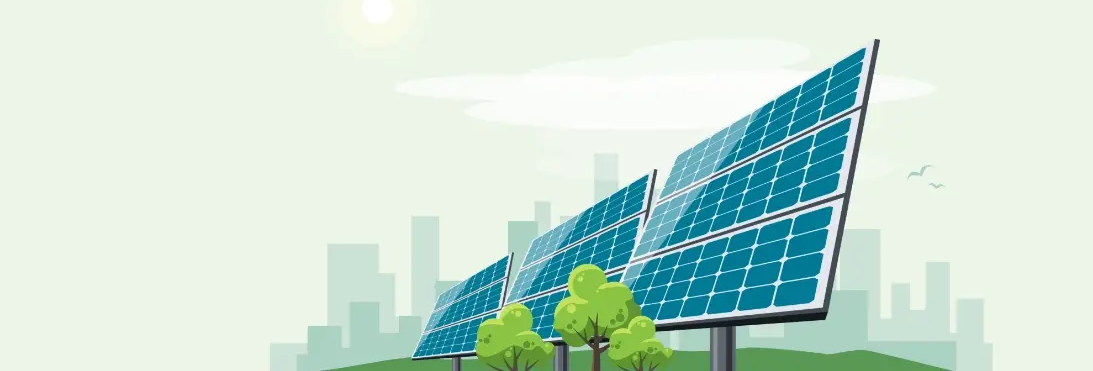
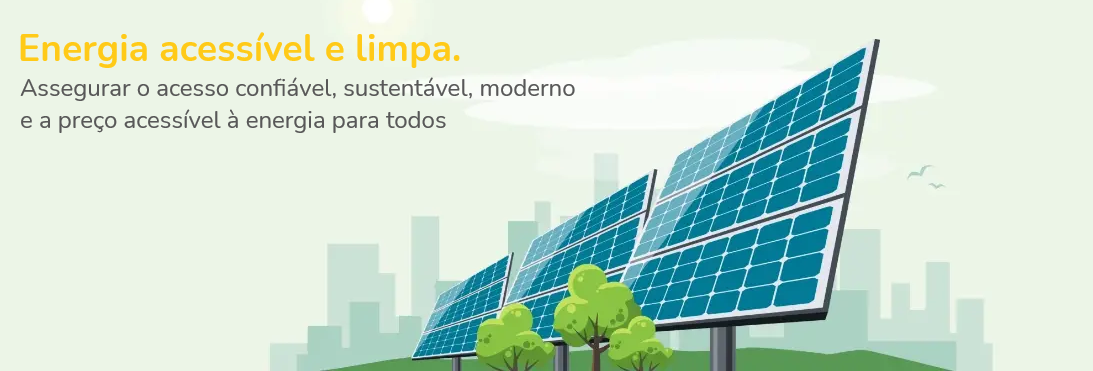
Adicionado os textos informativos e ajustados bugs

Changed region(s): [[0.0, 0.0889, 0.4355, 0.1779], [0.0, 0.2075, 0.5288, 0.2668], [0.0, 0.2965, 0.4044, 0.3558]]

diff --git a/index.html b/index.html
@@ -45,8 +45,8 @@
         <div class="row">
           <div class="col-sm-8 col-md-7 py-0">
             <h4 class="text-white"><img src="img/imgHeader.png" width="350" class="img-fluid rounded mx-auto d-block"
-                alt=""></h4>
-            <!--  <p class="text-muted">Adquira agora mesmo nossos painéis solares e economize até 20% por mês</p> -->
+                alt="">
+            </h4>
           </div>
         </div>
       </div>
@@ -66,20 +66,16 @@
             <li><button type="button" class="btn btn-link nav-link px-2 text-white" data-bs-target="#modalAgenda2030"
                 data-bs-toggle="modal"><i class="bi bi-book" style="margin-right: 5px; color: #ffc107;"></i>Agenda
                 2030</button></li>
-            <li><button type="button" class="btn btn-link nav-link px-2 text-white" data-bs-target="#exampleModal"
+            <li><button type="button" onclick="limparCampos()" class="btn btn-link nav-link px-2 text-white" data-bs-target="#modalCalculadora"
                 data-bs-toggle="modal"><i class="bi bi-calculator"
                   style="margin-right: 5px; color: #ffc107;"></i>Simulador de Investimento | Economia</button></li>
             <li><a href="#footer" class="nav-link px-2 text-white"><i class="bi bi-info-circle"
                   style="margin-right: 5px; color: #ffc107;"></i>Sobre</a></li>
           </ul>
 
-          <!--  <form class="col-12 col-lg-auto mb-3 mb-lg-0 me-lg-3">
-          <input type="search" class="form-control form-control-dark" placeholder="Search..." aria-label="Search">
-        </form> -->
-
           <div class="text-end">
             <a href="#footer">
-              <button type="button" class="btn btn-warning">Inscreva-se para novidades</button>
+              <button type="submit" class="btn btn-warning">Inscreva-se para novidades</button>
             </a>
           </div>
         </div>
@@ -90,8 +86,8 @@
 
   <main>
 
-    <!-- Modal -->
-    <div class="modal fade" id="modalAgenda2030" tabindex="-1" aria-labelledby="exampleModalLabel" aria-hidden="true">
+    <!-- Modal Agenda 2030 -->
+    <div class="modal fade" id="modalAgenda2030" tabindex="-1" aria-labelledby="Agenda 2030" aria-hidden="true">
       <div class="modal-dialog modal-xl">
         <div class="modal-content">
           <div class="modal-header bg-dark">
@@ -111,11 +107,11 @@
     </div>
 
     <!-- Modal Calculadora -->
-    <div class="modal fade" id="exampleModal" tabindex="-1" aria-labelledby="exampleModalLabel" aria-hidden="true">
+    <div class="modal fade" id="modalCalculadora" tabindex="-1" aria-labelledby="Calculadora de Investimento" aria-hidden="true">
       <div class="modal-dialog modal-xl">
         <div class="modal-content">
           <div class="modal-header bg-dark">
-            <h5 class="modal-title" id="exampleModalLabel" style="color: white;"><i class="bi bi-calculator"
+            <h5 class="modal-title" id="modalCalculadora" style="color: white;"><i class="bi bi-calculator"
                 style="margin-right: 5px; color: #ffc107; font-size: 2rem;"></i>Simulador de Investimento | Economia
             </h5>
             <button type="button" class="btn-close" data-bs-dismiss="modal" aria-label="Close"
@@ -127,7 +123,7 @@
               fotovoltaico "padrão", porém buscamos nos aproximar ao máximo da prática para cada projeto,
               orientando como coletar o índice de irradiação solar da localidade escolhida, e consideramos as perdas
               médias consideradas no projeto.</h6>
-            <form>
+            <form id="formCalculo">
               <section>
                 <div>
                   <label>Informe seu consumo médio em kWh/mês (informação consta na conta de luz mensal.):</label>
@@ -152,9 +148,12 @@
                   atual.</label>
                 <label>Informe o valor médio pago na sua conta de luz:</label>
                 <input type="text" id="custoMensal" class="form-control-sm"
-                  placeholder="valor médio pago de conta de luz" name="custoMensal" required>
+                  placeholder="valor médio pago de conta de luz" name="custoMensal">
               </section>
               <section id="quantPlacas">
+                <p></p>
+              </section>
+              <section id="economia">
                 <p></p>
               </section>
           </div>
@@ -172,8 +171,6 @@
         <h1 class="display-4 fw-normal">
           <img src="img/hero.png" width="1240" class="img-fluid rounded mx-auto d-block" alt=""></h1>
       </div>
-      <!-- <div class="product-device shadow-sm d-none d-md-block"></div>
-    <div class="product-device product-device-2 shadow-sm d-none d-md-block"></div> -->
     </div>
 
     <div class="album py-5 bg-light">
@@ -190,13 +187,12 @@
               </svg>
 
               <div class="card-body">
-                <p class="card-text">This is a wider card with supporting text below as a natural lead-in to additional
-                  content. This content is a little bit longer...</p>
+                <p class="card-text">Origem e Evolução da Energia Solar</p>
                 <div class="d-flex justify-content-between align-items-center">
                   <div class="btn-group">
-                    <a class="btn btn-sm btn-outline-secondary" href="/card1.html" role="button">Link</a>
+                    <a class="btn btn-sm btn-outline-secondary" href="card1.html" role="button">Leia mais</a>
                   </div>
-                  <small class="text-muted">9 mins</small>
+                  <small class="text-muted">4 mins</small>
                 </div>
               </div>
             </div>
@@ -207,14 +203,14 @@
               <svg class="bd-placeholder-img card-img-top" width="100%" height="0" xmlns="http://www.w3.org/2000/svg"
                 role="img" aria-label="Placeholder: Thumbnail" preserveAspectRatio="xMidYMid slice" focusable="false">
                 <title>Placeholder</title>
-                <img src="img/img2.png" class="img-thumbnail" style="height: 252px;" alt="">
+                <img src="img/imgVantagemCard.png" class="img-thumbnail" style="height: 252px;" alt="">
               </svg>
 
               <div class="card-body">
-                <p class="card-text">Incluir texto</p>
+                <p class="card-text">Vantagens e Desvantagens</p>
                 <div class="d-flex justify-content-between align-items-center">
                   <div class="btn-group">
-                    <button type="button" class="btn btn-sm btn-outline-secondary">Veja mais</button>
+                    <a class="btn btn-sm btn-outline-secondary" href="card2.html" role="button">Leia mais</a>
                   </div>
                   <small class="text-muted">9 mins</small>
                 </div>
@@ -230,34 +226,35 @@
               </svg>
 
               <div class="card-body">
-                <p class="card-text">Incluir texto</p>
+                <p class="card-text">Como funciona</p>
                 <div class="d-flex justify-content-between align-items-center">
                   <div class="btn-group">
-                    <button type="button" class="btn btn-sm btn-outline-secondary">Veja mais</button>
+                    <a class="btn btn-sm btn-outline-secondary" href="card3.html" role="button">Leia mais</a>
                   </div>
-                  <small class="text-muted">9 mins</small>
+                  <small class="text-muted">6 mins</small>
                 </div>
               </div>
             </div>
           </div>
   </main>
-  <form action="">
+  <form>
     <div class="container justify-content-center"
       style="background-color: #ffc107; border-radius: 8px; margin-bottom: 15px;">
       <div class="mb-3" style="padding-top: 11px;">
         <label for="exampleFormControlInput1" class="form-label">Nome</label>
-        <input type="nome" class="form-control" id="exampleFormControlInput1" placeholder="Fulano da Silva">
+        <input type="nome" class="form-control" id="exampleFormControlInput1" placeholder="Fulano da Silva" required>
       </div>
       <div class="mb-3">
         <label for="exampleFormControlInput1" class="form-label">Email</label>
-        <input type="email" class="form-control" id="exampleFormControlInput1" placeholder="fulano@example.com.br">
+        <input type="email" class="form-control" id="exampleFormControlInput1" placeholder="fulano@example.com.br" required>
       </div>
       <div class="py-2" style="margin-bottom: 15px;">
         <label for="exampleFormControlTextarea1" class="form-label">Comentários</label>
-        <textarea class="form-control" id="exampleFormControlTextarea1" rows="2" style="resize: none;"></textarea>
+        <textarea class="form-control" id="exampleFormControlTextarea1" rows="2" style="resize: none;" required></textarea>
       </div>
-      <input class="btn btn-light" style="margin-bottom: 20px;" type="submit" value="Submit">
+      <input class="btn btn-light" onclick="formEnviadoSucesso()" style="margin-bottom: 20px;" type="submit" value="Enviar">
     </div>
+    
   </form>
 
 

diff --git a/card3.html b/card3.html
@@ -77,18 +77,32 @@
 
   <div class="container my-5">
     <div class="row p-4 pb-0 pe-lg-0 pt-lg-5 align-items-center rounded-3 border shadow-lg">
-      <div class="col-lg-7 p-3 p-lg-5 pt-lg-3">
-        <h1 class="display-4 fw-bold lh-1">Origem e Evolução da Energia Solar</h1>
-        <p class="lead">A energia solar, próxima ao que conhecemos hoje, surgiu em 1954 por Russell Shoemaker Ohl, junto ao anúncio da primeira célula fotovoltaica durante uma reunião da National Academy of Sciences, após a descoberta do efeito fotovoltaico e dando início à utilização dos painéis solares em 1958.</p>
-        <p class="lead">Russell Ohl foi quem inventou a primeira placa de silício e também foi o primeiro a patentear o sistema fotovoltaico moderno, mais ou menos como conhecemos hoje. No entanto, seu êxito só foi possível graças ao trabalho de Calvin Fuller, Gerald Pearson e Daryl Chapin, cientistas do laboratório Bell Labs.</p>
-        <p class="lead">Fuller foi o químico que desenvolveu, pela primeira vez, o processo de dopagem do silício. Pearson, então, estabilizou as placas de silício a partir de reações químicas produzidas pelo contato de uma junção P-N ou diodo com as placas mergulhadas em lítio, podendo observar um comportamento fotovoltaico nas placas analisadas.</p>
-        <p class="lead">Nesse mesmo momento, Chapin procurava uma fonte de energia alternativa para as baterias usadas em redes telefônicas remotas. Fuller e Pearson entraram em contato com o físico e, em 1955, células de silício foram usadas pela primeira vez como fonte de alimentação de uma rede telefônica na Geórgia, um estado dos Estados Unidos.</p>
-        <div class="d-grid gap-2 d-md-flex justify-content-md-start mb-4 mb-lg-3">
-          <p>*Fonte: Portal Solar</p>
+      <div class="p-3 p-lg-5 pt-lg-3">
+
+        <div class="row justify-content-center">
+          <img src="img/img3.png" alt="" width="720">
         </div>
-      </div>
-      <div class="col-lg-4 offset-lg-1 p-0 overflow-hidden shadow-lg">
-          <img class="rounded-lg-3" src="img/img1.png" alt="" width="720">
+        <br>
+        <h1 class="display-6 fw-bold lh-3">Como Funcionam os Sistemas Solares Fotovoltaicos</h1>
+        <p class="lead">Os sistemas solares fotovoltaicos são a forma como conseguimos produzir e usufruir da energia solar fotovoltaica.</p>
+        <p class="lead">Atualmente, o Brasil já conta com mais de 144.000 desses sistemas espalhados por todo o país e atendendo os mais diversos tipos e tamanhos de unidades consumidoras.</p>
+        <p class="lead">Os principais equipamentos que compõem o sistema são os módulos fotovoltaicos, conhecidos popularmente como placas solares, e o inversor interativo.</p>
+        <p class="lead">Os módulos fotovoltaicos são compostos por muitas células solares, unidade mínima da tecnologia e responsáveis pela conversão direta da luz em eletricidade.</p>
+        <p class="lead">Feitas de materiais semicondutores, mais comumente o silício, as células solares são produzidas com uma camada positiva (com falta de elétrons) e uma camada negativa (com excesso de elétrons) que, juntas, criam um campo elétrico, assim como em uma bateria.</p>
+        <p class="lead">Quando os fótons atingem uma célula solar, eles liberam os elétrons em excesso dos átomos da camada negativa, que passam para a camada positiva criando, assim, um circuito elétrico. Quando os elétrons fluem através desse circuito, eles geram eletricidade.</p>
+        <p class="lead">Múltiplas células compõem um módulo fotovoltaico e vários destes são agrupados para formar um painel solar. Quanto mais painéis você pode implantar, mais energia você pode esperar gerar.</p>
+        <h1 class="display-6 fw-bold lh-3">Geração (e Conversão) de Energia</h1>
+        <p class="lead">Conforme os elétrons circulam em uma direção ao redor desse circuito, os módulos fotovoltaicos produzem energia em corrente contínua (CC).</p>
+        <p class="lead">No entanto, a energia que consumimos em nossas casas e empresas chega até nós como corrente alternada (CA). Como, então, os sistemas conseguem entregar a energia em CA? Usando um inversor.</p>
+        <p class="lead">Um inversor solar pega a eletricidade gerada pelo painel em CC e a converte em CA, por esse motivo que eles costumam ser considerados como o cérebro do sistema.</p>
+        <p class="lead">Juntamente com a inversão de CC para CA, eles também fornecem proteção contra falhas elétricas e geram estatísticas do sistema, incluindo a produção de energia e rastreamento de ponto máximo de potência.</p>
+        <p class="lead">Porém, a função mais importante do inversor, após a conversão de corrente, é a realização da troca da energia gerada com a energia da rede elétrica.</p>
+        <p class="lead">Por não produzirem energia durante a noite ou energia insuficiente em momentos de pouca luminosidade, os sistemas fotovoltaicos precisam ser conectados à rede elétrica para que o consumidor possa contar com a energia dela nesses momentos.</p>
+        <p class="lead">Da mesma forma, naqueles momentos de maior geração, quando o sistema pode estar suprindo mais do que é consumido, é preciso que essa energia seja enviada para algum lugar, visto o caráter imediato do uso desta.</p>
+        <p class="lead">Cabe, então, ao inversor realizar a troca dessa energia sistema/rede, injetando o excedente gerado na rede ou “pegando” desta nos momentos em que o sistema não consiga suprir o consumo.</p>
+        <div class="d-grid gap-2 d-md-flex justify-content-md-start mb-4 mb-lg-3">
+          <p>*Fonte: BlueSol</p>
+        </div>
       </div>
     </div>
   </div>
@@ -112,11 +126,9 @@
       <textarea class="form-control" id="exampleFormControlTextarea1" rows="2" style="resize: none;" required></textarea>
     </div>
     <input class="btn btn-light" onclick="formEnviadoSucesso()" style="margin-bottom: 20px;" type="submit" value="Enviar">
-    <!-- <div class="alert alert-success" role="alert" style="visibility: hidden;">
-      Enviado com sucesso!
-    </div> -->
   </div>
 </form>
+
 
 
 <footer class="footer mt-auto py-3 bg-dark" id="footer">

diff --git a/card2.html b/card2.html
@@ -77,18 +77,32 @@
 
   <div class="container my-5">
     <div class="row p-4 pb-0 pe-lg-0 pt-lg-5 align-items-center rounded-3 border shadow-lg">
-      <div class="col-lg-7 p-3 p-lg-5 pt-lg-3">
-        <h1 class="display-4 fw-bold lh-1">Origem e Evolução da Energia Solar</h1>
-        <p class="lead">A energia solar, próxima ao que conhecemos hoje, surgiu em 1954 por Russell Shoemaker Ohl, junto ao anúncio da primeira célula fotovoltaica durante uma reunião da National Academy of Sciences, após a descoberta do efeito fotovoltaico e dando início à utilização dos painéis solares em 1958.</p>
-        <p class="lead">Russell Ohl foi quem inventou a primeira placa de silício e também foi o primeiro a patentear o sistema fotovoltaico moderno, mais ou menos como conhecemos hoje. No entanto, seu êxito só foi possível graças ao trabalho de Calvin Fuller, Gerald Pearson e Daryl Chapin, cientistas do laboratório Bell Labs.</p>
-        <p class="lead">Fuller foi o químico que desenvolveu, pela primeira vez, o processo de dopagem do silício. Pearson, então, estabilizou as placas de silício a partir de reações químicas produzidas pelo contato de uma junção P-N ou diodo com as placas mergulhadas em lítio, podendo observar um comportamento fotovoltaico nas placas analisadas.</p>
-        <p class="lead">Nesse mesmo momento, Chapin procurava uma fonte de energia alternativa para as baterias usadas em redes telefônicas remotas. Fuller e Pearson entraram em contato com o físico e, em 1955, células de silício foram usadas pela primeira vez como fonte de alimentação de uma rede telefônica na Geórgia, um estado dos Estados Unidos.</p>
+      <div class="p-3 p-lg-5 pt-lg-3">
+
+        <div class="row justify-content-center">
+          <img src="img/imgVantagem.png" alt="" width="720">
+        </div>
+        <br>
+        <h1 class="display-6 fw-bold lh-3">Vantagens</h1>
+        <p class="lead">São vantagens da energia solar: seu baixo impacto ambiental, sua instalação simples, seu baixo custo em relação ao tempo de vida útil (mais de 25 anos) e o fato de poder ser utilizada como substituta da energia elétrica convencional em regiões que ainda não possuem distribuição.</p>
+        <p class="lead">A energia solar é uma das mais sustentáveis do mundo, sendo renovável e limpa, uma vez que não emite poluentes nem utiliza matérias-primas escassas na natureza. </p>
+        <p class="lead">A energia fotovoltaica também contribui para a diminuição da poluição sonora. Seu funcionamento é silencioso e discreto, evitando a produção de ruídos desagradáveis.</p>
+        <p class="lead">Esse tipo de sistema de geração de energia também não requer um cuidado de manutenção exaustivo, apenas uma limpeza ocasional. Além disso, sua matéria-prima – a luminosidade do sol – é inesgotável e gratuita. </p>
+        <p class="lead">As estruturas de captação podem durar até 25 anos, pagando-se em apenas sete. A economia proporcionada pode chegar até 95% do total da conta de luz, tornando esse um investimento muito inteligente, que contribui também para a valorização do imóvel. </p>
+        <p class="lead">O Laboratório Nacional Lawrence Berkeley, nos EUA, indicou em um estudo que um imóvel com energia solar passa por uma valorização de 4 a 6%.</p>
+        <p class="lead">As placas solares também são uma boa opção para residências em áreas isoladas, fora da rede elétrica. Sistemas off-grid utilizam o auxílio de baterias para armazenar a energia captada pelas placas, garantindo a alimentação mesmo em dias chuvosos ou durante a noite. </p>
+        <p class="lead">Sistemas de energia fotovoltaica também são sustentáveis em seu descarte, uma vez que podem ser reciclados com uma eficiência de até 97%.</p>
+        <h1 class="display-6 fw-bold lh-3">Desvantagens</h1>
+        <p class="lead">As desvantagens da energia solar são: alto custo de aquisição inicial, não funcionar à noite em sistemas sem baterias; baixo incentivo no Brasil; e poucos estudos sobre os impactos provenientes do descarte dos painéis.</p>
+        <p class="lead">Apesar de seus diversos benefícios sociais, econômicos e ambientais, a energia solar possui algumas desvantagens, como sua baixa capacidade de armazenamento e a interrupção de produção de energia à noite.</p>
+        <p class="lead">Em redes on-grid, problemas técnicos na rede elétrica da distribuidora podem causar interrupção da produção de energia solar por conta do sistema anti-ilhamento, evitando sobrecargas do gerador e riscos de comprometer a rede.</p>
+        <p class="lead fw-bold">Alto custo de aquisição</p>
+        <p class="lead">As células solares e painéis solares que são necessários para aproveitar a energia solar tem um custo alto de aquisição. Embora se considerar a vida útil deles sendo maior que 25 anos o custo é extremamente razoável e competitivo.</p>
+        <p class="lead fw-bold">A energia solar não pode ser aproveitada durante a noite</p>
+        <p class="lead">Os painéis solares não funcionam a noite. Você produz energia durante o dia e se gerar mais do que está consumindo, esta energia vai para a rede da distribuidora que se transforma em créditos de energia que serão usados para abater o seu consumo da noite.</p>
         <div class="d-grid gap-2 d-md-flex justify-content-md-start mb-4 mb-lg-3">
           <p>*Fonte: Portal Solar</p>
         </div>
-      </div>
-      <div class="col-lg-4 offset-lg-1 p-0 overflow-hidden shadow-lg">
-          <img class="rounded-lg-3" src="img/img1.png" alt="" width="720">
       </div>
     </div>
   </div>
@@ -112,11 +126,9 @@
       <textarea class="form-control" id="exampleFormControlTextarea1" rows="2" style="resize: none;" required></textarea>
     </div>
     <input class="btn btn-light" onclick="formEnviadoSucesso()" style="margin-bottom: 20px;" type="submit" value="Enviar">
-    <!-- <div class="alert alert-success" role="alert" style="visibility: hidden;">
-      Enviado com sucesso!
-    </div> -->
   </div>
 </form>
+
 
 
 <footer class="footer mt-auto py-3 bg-dark" id="footer">

diff --git a/js/calculator.js b/js/calculator.js
@@ -3,7 +3,13 @@ function calculoPainel() {
   var hsp = parseFloat(document.getElementById("hsp").value);
   var valorpotencia = document.getElementById("valorpotencia");
   var quantPlacas = document.getElementById("quantPlacas");
-  var custoMensal = parseFloat(document.getElementById("custoMensal").value);
+  var custoMensal = document.getElementById("custoMensal").value;
+  if (custoMensal != "") {
+    custoMensal = parseFloat(custoMensal);
+  }
+  var paragrafoEconomia = document.getElementById("economia");
+  var Pmedio = 0;
+  var economia = 0;
   potencia = ((consumo / 30) / hsp) / 0.8;
   painel = Math.ceil((potencia * 1000) / 340);
   area = painel * 2 * 1
@@ -40,7 +46,41 @@ function calculoPainel() {
     Pmedio = "92.100,00"
   }
   Pmediob = Pmedio.replace('.', '');
-  economia = custoMensal * 0.95
-  payback = (parseFloat(Pmediob) / (0.95 * custoMensal * 12)).toFixed(2)
-  quantPlacas.innerHTML = " <br> <form> <fieldset> <legend>Resultado de Dimensionamento e investimento</legend> <p>Quantidade necessária de painéis fotovoltáicos: <b>" + painel + "</b> * (Considerado painel de 340W de 72 células, cada um com comprimento de 2 m, largura de 1 m e peso de 22 Kg).</p><p>Potência necessária do Inversor: <b>" + inversor + " Kw.</b></p><p>Preços médios totais da instalação de placa solar e equipamentos é de: <b>R$</b> <b>" + Pmedio + "</b></p><p>A área necessária estimada para instalação dos painéis fotovoltáicos é de: <b>" + area + " m²</b></p><p>Com uma economia média mensal de R$" + economia + ", O payback do investimento é de : <b>" + payback + "</b> anos</p> </fieldset> </form>";
+  economia = (custoMensal * 0.95).toFixed(2);
+  payback = (parseFloat(Pmediob) / (0.95 * custoMensal * 12)).toFixed(2);
+  quantPlacas.innerHTML = `<br> 
+  <form> 
+    <legend>Resultado de Dimensionamento e investimento</legend> 
+    <p>Quantidade necessária de painéis fotovoltáicos: <b> ${painel} </b> 
+    * (Considerado painel de 340W de 72 células, cada um com comprimento de 2 m, largura de 1 m e peso de 22 Kg).
+    </p>
+    <p>Potência necessária do Inversor: <b> ${inversor}Kw.</b></p>
+    <p>Preços médios totais da instalação de placa solar e equipamentos é de: <b>R$</b> <b> ${Pmedio} </b></p>
+    <p>A área necessária estimada para instalação dos painéis fotovoltáicos é de: <b> ${area}m²</b></p>
+    
+  </form>`;
+
+  if (custoMensal != "") {
+    paragrafoEconomia.innerHTML = `
+    <p>Com uma economia média mensal de R$ ${economia} , O payback do investimento é de : <b> ${payback} </b> anos</p>`
+  }
+
+  var form = document.getElementById('formCalculo');
+  form.addEventListener('submit', function(e){
+      e.preventDefault();
+  });
+  
+}
+
+function limparCampos(){
+  var inputConsumo = document.getElementById("consumo");
+  var inputHsp = document.getElementById("hsp");
+  var inputCustoMensal = document.getElementById("custoMensal");
+  var quantPlacas = document.getElementById("quantPlacas");
+  var paragrafoEconomia = document.getElementById("economia");
+  inputConsumo.value = "";
+  inputHsp.value = "";
+  inputCustoMensal.value = "";
+  quantPlacas.innerHTML = "";
+  paragrafoEconomia.innerHTML = "";
 }

diff --git a/css/style.css b/css/style.css
@@ -15,3 +15,7 @@ label {
   font-family: 'Nunito', sans-serif;
   text-align: justify;
 }
+
+html {
+  scroll-behavior: smooth;
+}
